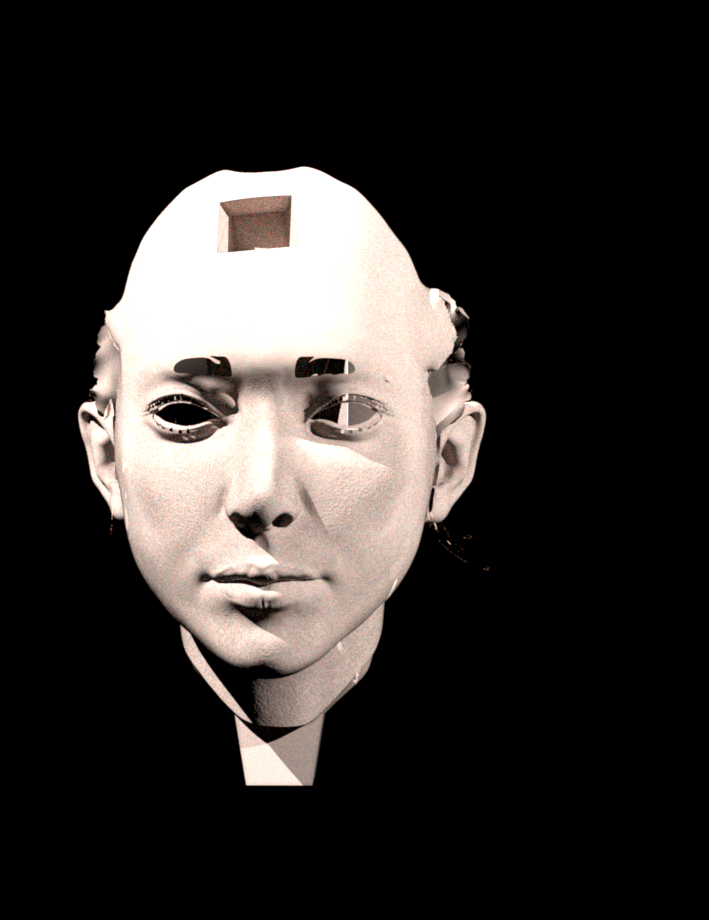
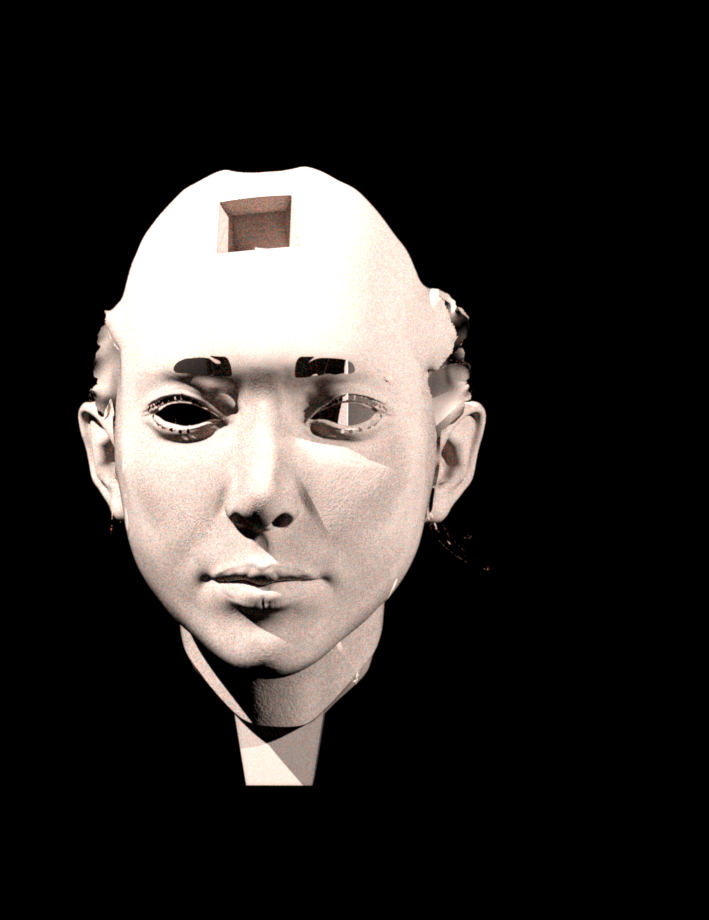
Optimized bvh ray traversal and bbox ray intersect

Changed region(s): [[0.3103, 0.213, 0.4034, 0.2739], [0.3103, 0.6087, 0.3413, 0.6391], [0.2482, 0.5478, 0.2793, 0.5783]]

diff --git a/src/accel.cpp b/src/accel.cpp
@@ -448,12 +448,14 @@ Intersection fillIntersection(Point2f uv, const Mesh *mesh, n_UINT f, float t)
 	return its;
 }
 
+
+/*
 bool Accel::rayIntersect(const Ray3f &_ray, Intersection &its, bool shadowRay) const {
 	n_UINT node_idx = 0, stack_idx = 0, stack[64];
 
 	its.t = std::numeric_limits<float>::infinity();
 
-	/* Use an adaptive ray epsilon */
+	// Use an adaptive ray epsilon
 	Ray3f ray(_ray);
 	if (ray.mint == Epsilon)
 		ray.mint = std::max(ray.mint, ray.mint * ray.o.array().abs().maxCoeff());
@@ -467,33 +469,143 @@ bool Accel::rayIntersect(const Ray3f &_ray, Intersection &its, bool shadowRay) c
 	while (true) {
 		const BVHNode &node = m_nodes[node_idx];
 
-		//if (!node.bbox.rayIntersect(ray)) {
-		//	if (stack_idx == 0)
-		//		break;
-		//	node_idx = stack[--stack_idx];
-		//	continue;
-		//}
+		if (!node.bbox.rayIntersect(ray)) {
+			if (stack_idx == 0)
+				break;
+			node_idx = stack[--stack_idx];
+			continue;
+		}
+
+		if (node.isInner()) {
+			stack[stack_idx++] = node.inner.rightChild;
+			node_idx++;
+			assert(stack_idx < 64);
+		}
+		else {
+			for (n_UINT i = node.start(), end = node.end(); i < end; ++i) {
+				n_UINT idx = m_indices[i];
+				const Mesh *mesh = m_meshes[findMesh(idx)];
+
+				float u, v, t;
+				if (mesh->rayIntersect(idx, ray, u, v, t)) {
+					if (shadowRay)
+						return true;
+					foundIntersection = true;
+					ray.maxt = its.t = t;
+					its.uv = Point2f(u, v);
+					its.mesh = mesh;
+					f = idx;
+				}
+			}
+			if (stack_idx == 0)
+				break;
+			node_idx = stack[--stack_idx];
+			continue;
+		}
+	}
+
+	if (foundIntersection) {
+		// Find the barycentric coordinates
+		Vector3f bary;
+		bary << 1 - its.uv.sum(), its.uv;
+
+		// References to all relevant mesh buffers
+		const Mesh *mesh = its.mesh;
+		const MatrixXf &V = mesh->getVertexPositions();
+		const MatrixXf &N = mesh->getVertexNormals();
+		const MatrixXf &UV = mesh->getVertexTexCoords();
+		const MatrixXu &F = mesh->getIndices();
+
+		// Vertex indices of the triangle
+		n_UINT idx0 = F(0, f), idx1 = F(1, f), idx2 = F(2, f);
+
+		Point3f p0 = V.col(idx0), p1 = V.col(idx1), p2 = V.col(idx2);
+
+		// Compute the intersection positon accurately
+		   using barycentric coordinates
+		its.p = bary.x() * p0 + bary.y() * p1 + bary.z() * p2;
+
+		// Compute proper texture coordinates if provided by the mesh
+		if (UV.size() > 0)
+			its.uv = bary.x() * UV.col(idx0) +
+			bary.y() * UV.col(idx1) +
+			bary.z() * UV.col(idx2);
+
+		// Compute the geometry frame
+		its.geoFrame = Frame(its.p, (p1 - p0).cross(p2 - p0).normalized());
+
+		if (N.size() > 0) {
+			// Compute the shading frame. Note that for simplicity,
+			// the current implementation doesn't attempt to provide
+			// tangents that are continuous across the surface. That
+			// means that this code will need to be modified to be able
+			// use anisotropic BRDFs, which need tangent continuity
+
+			its.shFrame = Frame(its.p,
+				(bary.x() * N.col(idx0) +
+					bary.y() * N.col(idx1) +
+					bary.z() * N.col(idx2)).normalized());
+		}
+		else {
+			its.shFrame = its.geoFrame;
+		}
+	}
+
+	return foundIntersection;
+}
+*/
+
+
+
+bool Accel::rayIntersect(const Ray3f &_ray, Intersection &its, bool shadowRay) const {
+	n_UINT node_idx = 0, stack_idx = 0, stack[64];
+
+	its.t = std::numeric_limits<float>::infinity();
+
+	// Use an adaptive ray epsilon 
+	Ray3f ray(_ray);
+	if (ray.mint == Epsilon)
+		ray.mint = std::max(ray.mint, ray.mint * ray.o.array().abs().maxCoeff());
+
+	if (m_nodes.empty() || ray.maxt < ray.mint)
+		return false;
+
+	bool foundIntersection = false;
+	n_UINT f = 0;
+
+	while (true) {
+		const BVHNode &node = m_nodes[node_idx];
 
 		if (node.isInner()) 
 		{
-			n_UINT right = node.inner.rightChild;
+			const n_UINT right = node.inner.rightChild;
+			const n_UINT left = node_idx + 1;
 			float tRight, tLeft;
 			bool right_intersected = m_nodes[right].bbox.rayIntersect(ray, tRight);
 			bool left_intersected  = m_nodes[node_idx+1].bbox.rayIntersect(ray, tLeft);
-			
 
 			if (left_intersected && right_intersected)
 			{
-				bool rightFurther = tRight > tLeft;
-				stack[stack_idx++] = rightFurther ? node.inner.rightChild : node_idx + 1;
-				
-				// Move to other child
-				node_idx = rightFurther ? node_idx + 1 : right;
+				if (tRight > tLeft)
+				{
+					stack[stack_idx++] = right;
+					node_idx = left;
+				}
+				else
+				{
+					stack[stack_idx++] = left;
+					node_idx = right;
+				}
+
 				assert(stack_idx < 64);
 			}
-			else if (left_intersected || right_intersected)
+			else if (left_intersected)
 			{
-				node_idx = right_intersected ? right : node_idx + 1;
+				node_idx = left;
+			}
+			else if (right_intersected)
+			{
+				node_idx = right;
 			}
 			else
 			{
@@ -531,41 +643,41 @@ bool Accel::rayIntersect(const Ray3f &_ray, Intersection &its, bool shadowRay) c
 
 	if (foundIntersection) 
 	{
-		/* Find the barycentric coordinates */
+		// Find the barycentric coordinates
 		Vector3f bary;
 		bary << 1 - its.uv.sum(), its.uv;
 
-		/* References to all relevant mesh buffers */
+		// References to all relevant mesh buffers
 		const Mesh *mesh = its.mesh;
 		const MatrixXf &V = mesh->getVertexPositions();
 		const MatrixXf &N = mesh->getVertexNormals();
 		const MatrixXf &UV = mesh->getVertexTexCoords();
 		const MatrixXu &F = mesh->getIndices();
 
-		/* Vertex indices of the triangle */
+		// Vertex indices of the triangle 
 		n_UINT idx0 = F(0, f), idx1 = F(1, f), idx2 = F(2, f);
 
 		Point3f p0 = V.col(idx0), p1 = V.col(idx1), p2 = V.col(idx2);
 
-		/* Compute the intersection positon accurately
-		   using barycentric coordinates */
+		// Compute the intersection positon accurately
+		//   using barycentric coordinates 
 		its.p = bary.x() * p0 + bary.y() * p1 + bary.z() * p2;
 
-		/* Compute proper texture coordinates if provided by the mesh */
+		// Compute proper texture coordinates if provided by the mesh 
 		if (UV.size() > 0)
 			its.uv = bary.x() * UV.col(idx0) +
 			bary.y() * UV.col(idx1) +
 			bary.z() * UV.col(idx2);
 
-		/* Compute the geometry frame */
+		// Compute the geometry frame 
 		its.geoFrame = Frame(its.p, (p1 - p0).cross(p2 - p0).normalized());
 
 		if (N.size() > 0) {
-			/* Compute the shading frame. Note that for simplicity,
-			   the current implementation doesn't attempt to provide
-			   tangents that are continuous across the surface. That
-			   means that this code will need to be modified to be able
-			   use anisotropic BRDFs, which need tangent continuity */
+			// Compute the shading frame. Note that for simplicity,
+			// the current implementation doesn't attempt to provide
+			// tangents that are continuous across the surface. That
+			// means that this code will need to be modified to be able
+			// use anisotropic BRDFs, which need tangent continuity 
 
 			its.shFrame = Frame(its.p,
 				(bary.x() * N.col(idx0) +
@@ -579,7 +691,6 @@ bool Accel::rayIntersect(const Ray3f &_ray, Intersection &its, bool shadowRay) c
 
 	return foundIntersection;
 }
-
 
 
 bool Accel::rayProbe(const Ray3f &_ray, std::vector<Intersection> &its) const 

diff --git a/include/nori/bbox.h b/include/nori/bbox.h
@@ -370,34 +370,50 @@ template <typename _PointType> struct TBoundingBox {
         return ray.mint <= farT && nearT <= ray.maxt;
     }
 
-    void ascending(double &a, double &b) const {
-        if (a > b) std::swap(a, b);
-    }
-
-    float rayIntersect(const Ray3f &ray, float &minT) const 
+    bool rayIntersectOld(const Ray3f &ray, float &minT) const 
     {
-        double txmin = (min.x() - ray.o.x()) * ray.dRcp.x();
-        double txmax = (max.x() - ray.o.x()) * ray.dRcp.x();
-        double tymin = (min.y() - ray.o.y()) * ray.dRcp.y();
-        double tymax = (max.y() - ray.o.y()) * ray.dRcp.y();
-        double tzmin = (min.z() - ray.o.z()) * ray.dRcp.z();
-        double tzmax = (max.z() - ray.o.z()) * ray.dRcp.z();
+        float nearT = -std::numeric_limits<float>::infinity();
+        float farT = std::numeric_limits<float>::infinity();
 
-        ascending(txmin, txmax);
-        ascending(tymin, tymax);
-        ascending(tzmin, tzmax);
+        for (int i=0; i<3; i++) {
+            float origin = ray.o[i];
+            float minVal = min[i], maxVal = max[i];
 
-        double t0 = std::max(txmin, std::max(tymin, tzmin));
-        double t1 = std::min(txmax, std::min(tymax, tzmax));
+            if (ray.d[i] == 0) {
+                if (origin < minVal || origin > maxVal)
+                    return false;
+            } else {
+                float t1 = (minVal - origin) * ray.dRcp[i];
+                float t2 = (maxVal - origin) * ray.dRcp[i];
 
-        if (t1 < t0 || t0 > ray.maxt || t1 < ray.mint) {
-            return false;
+                if (t1 > t2)
+                    std::swap(t1, t2);
+
+                nearT = std::max(t1, nearT);
+                farT = std::min(t2, farT);
+
+                if (!(nearT <= farT))
+                    return false;
+            }
         }
 
-        // Minimum valid intersection distance
-        minT = t0 > ray.mint ? t0 : t1;
+        minT = nearT;
 
-        return true;
+        return ray.mint <= farT && nearT <= ray.maxt;
+    }
+
+    bool rayIntersect(const Ray3f &ray, float &minT) const 
+    {
+        Eigen::Vector3f _tmin = (min - ray.o).cwiseProduct(ray.dRcp);
+        Eigen::Vector3f tmax = (max - ray.o).cwiseProduct(ray.dRcp);
+
+        Eigen::Vector3f tmin = _tmin.cwiseMin(tmax);
+        tmax = _tmin.cwiseMax(tmax); 
+
+        minT = tmin.maxCoeff();
+        float t1 = tmax.minCoeff();
+
+        return t1 >= minT && minT <= ray.maxt && t1 >= ray.mint;
     }
 
 
